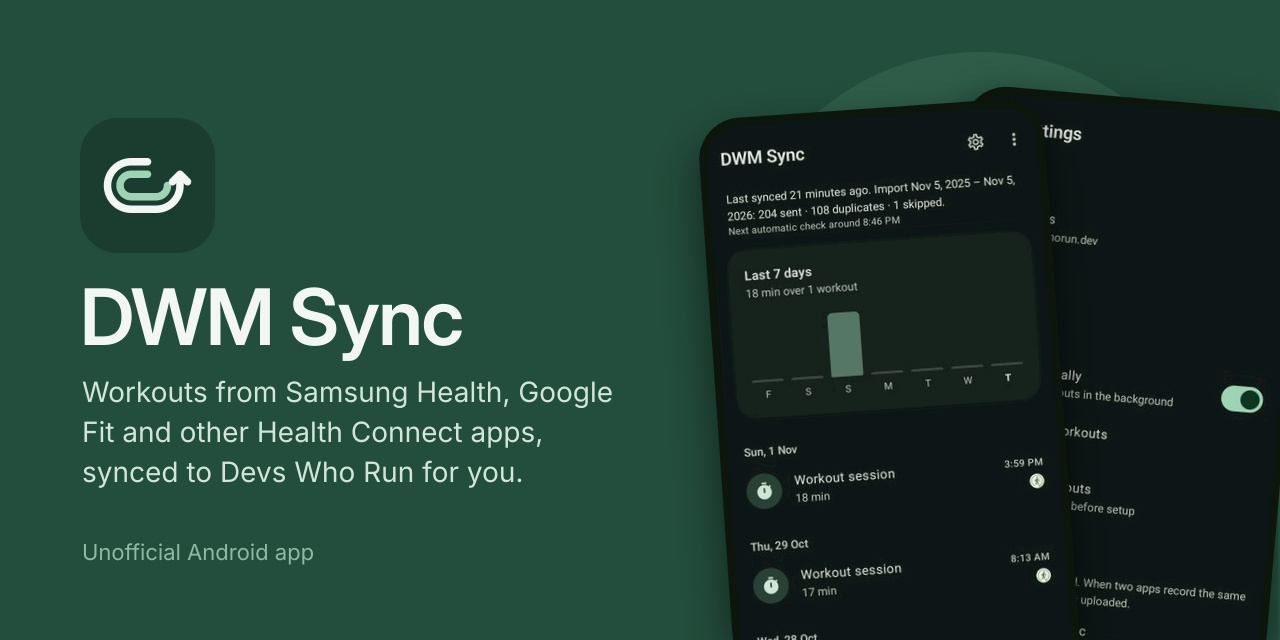
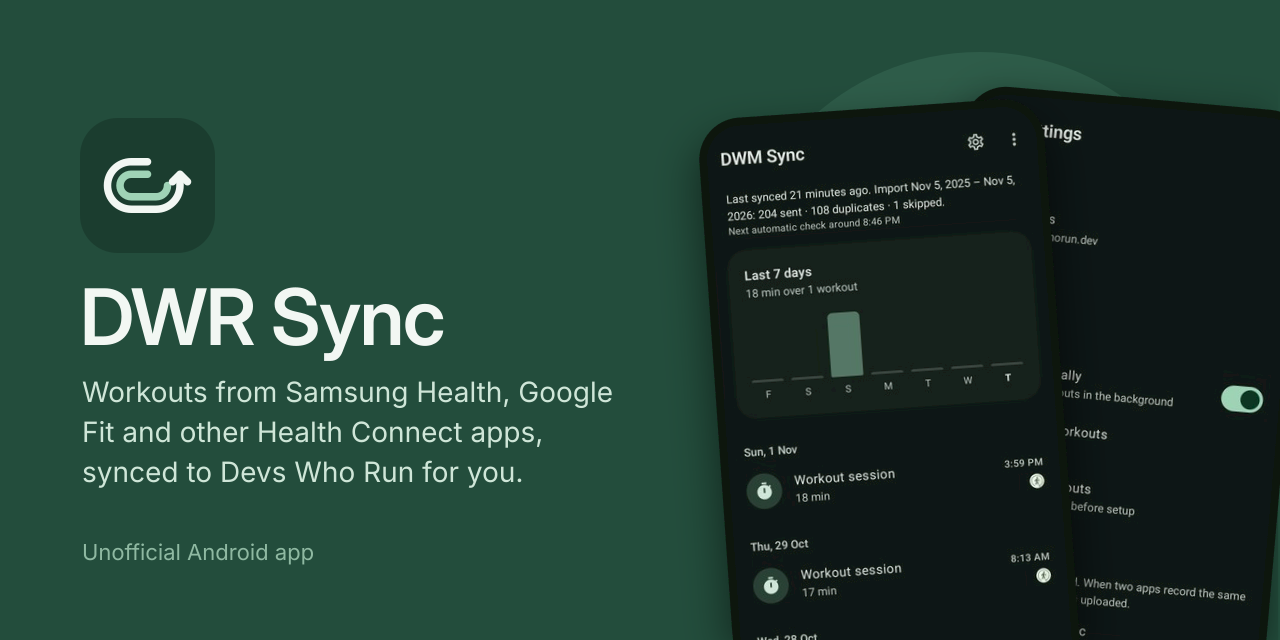
Rename app to DWR Sync
Package ID is unchanged so installed copies keep updating.

Claude-Session: https://claude.ai/code/session_018WRVYNsnKbo7dgUCNth2r1

Changed region(s): [[0.1562, 0.4375, 0.375, 0.5625]]

diff --git a/app/src/main/java/com/yogeshpaliyal/dwmsync/ui/OnboardingScreen.kt b/app/src/main/java/com/yogeshpaliyal/dwmsync/ui/OnboardingScreen.kt
@@ -122,7 +122,7 @@ fun OnboardingScreen(onDone: () -> Unit) {
                         AppLogo(Modifier.padding(start = 24.dp, top = 32.dp))
                         Heading(
                             "Your workouts, on Devs Who Run",
-                            "DWM Sync picks up the workouts your fitness apps already record and uploads them for you. " +
+                            "DWR Sync picks up the workouts your fitness apps already record and uploads them for you. " +
                                 "Uploads stay private until you publish them on the site.",
                         )
                         DataPath(Modifier.padding(horizontal = 24.dp, vertical = 16.dp))
@@ -130,7 +130,7 @@ fun OnboardingScreen(onDone: () -> Unit) {
                     1 -> {
                         Heading(
                             "Allow access to workouts",
-                            "Health Connect asks which data DWM Sync may read. Allow background and past data too, " +
+                            "Health Connect asks which data DWR Sync may read. Allow background and past data too, " +
                                 "so syncing works with the app closed and older workouts can be imported.",
                         )
                         HealthConnectStatus(hc, Modifier.padding(horizontal = 24.dp, vertical = 8.dp))
@@ -250,7 +250,7 @@ private fun DataPath(modifier: Modifier = Modifier) {
         PathStop(
             icon = { AppIcon(HEALTH_CONNECT_PACKAGE, 40.dp) },
             title = "Health Connect",
-            body = "Keeps the workouts on your phone. DWM Sync only reads them.",
+            body = "Keeps the workouts on your phone. DWR Sync only reads them.",
             last = false,
         )
         PathStop(
@@ -303,7 +303,7 @@ private fun AppLogo(modifier: Modifier = Modifier) {
     ) {
         Image(
             painter = painterResource(R.drawable.ic_launcher_foreground),
-            contentDescription = "DWM Sync",
+            contentDescription = "DWR Sync",
             modifier = Modifier.fillMaxSize(),
         )
     }

diff --git a/app/src/main/java/com/yogeshpaliyal/dwmsync/ui/Common.kt b/app/src/main/java/com/yogeshpaliyal/dwmsync/ui/Common.kt
@@ -149,7 +149,7 @@ fun HealthConnectStatus(hc: HealthConnectState, modifier: Modifier = Modifier) {
             }
             hc.hasAll -> {
                 StatusLine(Icons.Filled.CheckCircle, colors.primary, "Access allowed",
-                    "DWM Sync can read workouts and distance, including in the background and from the past.")
+                    "DWR Sync can read workouts and distance, including in the background and from the past.")
                 ActionRow { TextButton(onClick = { openHealthConnectSettings(context) }) { Text("Manage in Health Connect") } }
             }
             hc.hasRequired -> {
@@ -159,7 +159,7 @@ fun HealthConnectStatus(hc: HealthConnectState, modifier: Modifier = Modifier) {
             }
             else -> {
                 StatusLine(Icons.Outlined.Lock, colors.onSurfaceVariant, "Access needed",
-                    "DWM Sync only reads workouts and distance. It never writes to Health Connect.")
+                    "DWR Sync only reads workouts and distance. It never writes to Health Connect.")
                 ActionRow { Button(onClick = hc.request) { Text("Allow access") } }
             }
         }

diff --git a/app/src/main/java/com/yogeshpaliyal/dwmsync/PrivacyActivity.kt b/app/src/main/java/com/yogeshpaliyal/dwmsync/PrivacyActivity.kt
@@ -27,9 +27,9 @@ class PrivacyActivity : ComponentActivity() {
                         Modifier.safeDrawingPadding().padding(24.dp),
                         verticalArrangement = Arrangement.spacedBy(12.dp),
                     ) {
-                        Text("How DWM Sync uses your data", style = MaterialTheme.typography.headlineSmall)
+                        Text("How DWR Sync uses your data", style = MaterialTheme.typography.headlineSmall)
                         Text(
-                            "DWM Sync reads only your exercise sessions and distance from Health Connect. " +
+                            "DWR Sync reads only your exercise sessions and distance from Health Connect. " +
                                 "For each workout it sends the title, sport, start time, duration and distance " +
                                 "to the Devs Who Run site you configure, using your own agent token. " +
                                 "Uploads are always private on the site until you publish them yourself."

diff --git a/app/src/main/java/com/yogeshpaliyal/dwmsync/ui/SettingsScreen.kt b/app/src/main/java/com/yogeshpaliyal/dwmsync/ui/SettingsScreen.kt
@@ -106,7 +106,7 @@ fun SettingsScreen(onBack: () -> Unit, onImport: () -> Unit, onResetSetup: () ->
             Spacer(Modifier.height(24.dp))
             HorizontalDivider(Modifier.padding(horizontal = 20.dp))
             Text(
-                "DWM Sync ${BuildConfig.VERSION_NAME}",
+                "DWR Sync ${BuildConfig.VERSION_NAME}",
                 Modifier.padding(horizontal = 20.dp, vertical = 16.dp),
                 style = MaterialTheme.typography.bodySmall,
                 color = MaterialTheme.colorScheme.onSurfaceVariant,

diff --git a/app/src/main/java/com/yogeshpaliyal/dwmsync/ui/HomeScreen.kt b/app/src/main/java/com/yogeshpaliyal/dwmsync/ui/HomeScreen.kt
@@ -113,7 +113,7 @@ fun HomeScreen(onOpenSettings: () -> Unit, onImport: () -> Unit) {
         modifier = Modifier.nestedScroll(scrollBehavior.nestedScrollConnection),
         topBar = {
             TopAppBar(
-                title = { Text("DWM Sync") },
+                title = { Text("DWR Sync") },
                 scrollBehavior = scrollBehavior,
                 actions = {
                     IconButton(onClick = onOpenSettings) { Icon(Icons.Outlined.Settings, contentDescription = "Settings") }

diff --git a/app/src/main/java/com/yogeshpaliyal/dwmsync/DwmApi.kt b/app/src/main/java/com/yogeshpaliyal/dwmsync/DwmApi.kt
@@ -43,7 +43,7 @@ object DwmApi {
                 setRequestProperty("Content-Type", "application/json")
                 setRequestProperty("Accept", "application/json")
                 setRequestProperty("Idempotency-Key", "hc-${s.id}")
-                setRequestProperty("User-Agent", "DwmSync-Android/1.0")
+                setRequestProperty("User-Agent", "DwrSync-Android/1.0")
                 setFixedLengthStreamingMode(body.size)
             }
         } catch (e: IOException) {

diff --git a/README.md b/README.md
@@ -1,6 +1,6 @@
-<img src="docs/banner.png" alt="DWM Sync: workouts from Health Connect apps, synced to Devs Who Run" width="100%">
+<img src="docs/banner.png" alt="DWR Sync: workouts from Health Connect apps, synced to Devs Who Run" width="100%">
 
-# DWM Sync
+# DWR Sync
 
 An Android app that uploads the workouts your fitness apps record (Samsung Health, Google Fit, Health Sync and any other app that writes to Health Connect) to your [Devs Who Run](https://devswhorun.dev) account, automatically and in the background.
 
